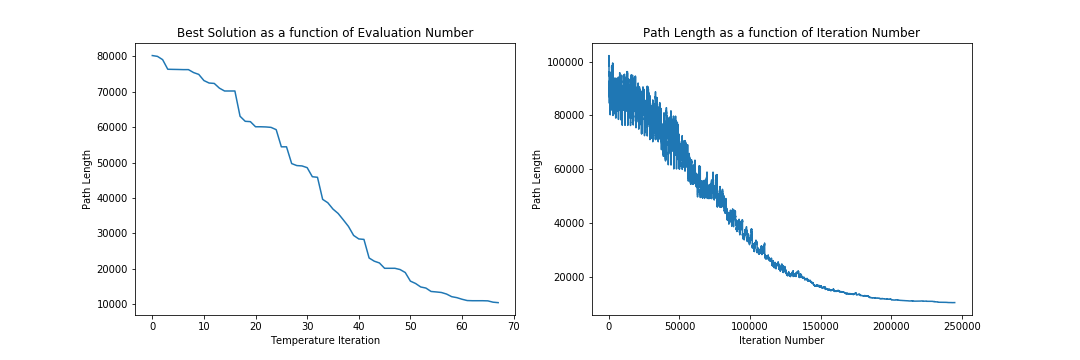
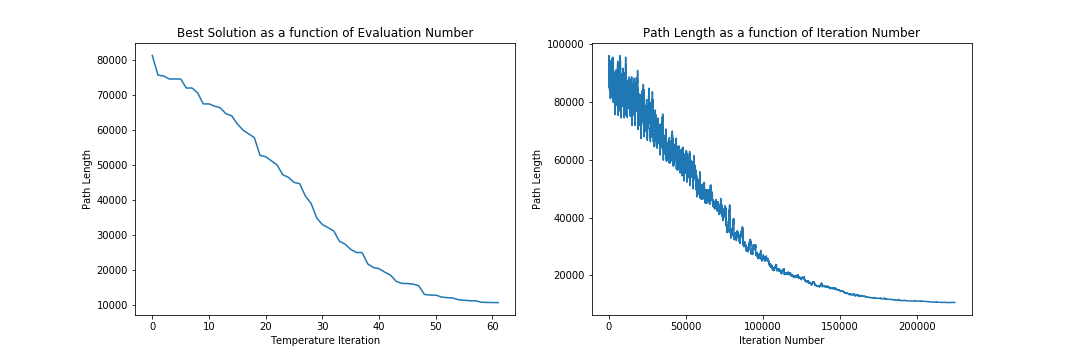
update

diff --git a/TSP_Qatar_194/README.md b/TSP_Qatar_194/README.md
@@ -20,7 +20,7 @@ An important aspect of the algorithm is the choice of perturbation of the soluti
 
 ## Parameters:
 
-initial temperature: 10  
+initial temperature: 5  
 final temperature: 0.008  
 cool factor: 0.9  
 maximum number of iterations at given temperature: 1940 (10 times the number of cities)
@@ -223,10 +223,10 @@ city: 84 	 x: 50793.6111 	 y: 25419.4444
 city: 64 	 x: 50766.6667 	 y: 25316.6667  
 city: 19 	 x: 50807.2222 	 y: 25214.1667  
 
-Fitness: 10448 (known optimum 9352)  
-Number of function evaluations: 244,853  
+Fitness: 10547 (known optimum 9352)  
+Number of function evaluations: 224,466  
 Stopping Criterion: Number of function evaluations  
-Computational Time: 100.61 seconds  
+Computational Time: 41.1 seconds  
 
 Convergence curve:
 ![](convergenceCurves.png)

diff --git a/README.md b/README.md
@@ -2,10 +2,10 @@
 
 Summary of Results
 
-|  Problem  |  Known Optimum  |  Optimum Found  | RunTime |  Number of Iterations  
-|  ---  |  ---  |  ---  |  ---  |  ---  |
-|  Djibouti38  |  6656  |  6659  |  1.45s |  31,758   |
-|  Qatar194  |  9352  |  10448  |  100.61s |  244,853   |
+|  Problem  |  Known Optimum  |  Optimum Found  | RunTime |  Number of Iterations  |  Number of function evaluations
+|  ---  |  ---  |  ---  |  ---  |  ---  | ---  |
+|  Djibouti38  |  6656  |  6659  |  1.45s |  31,758   |  31, 758  |
+|  Qatar194  |  9352  |  10547  |  41.1s |  224,466   |  224,466  |
 |  ShiftedSphere_50  |  -450  |  -450  |  0.01 s |  3   |
 |  ShiftedSphere_500  |  -450  |  -449.99  |  0.1 s |  3   |
 |  ShiftedSchwefel_50  |  -450  |  -450  |  0.05 s |  1030   |
